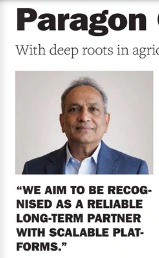
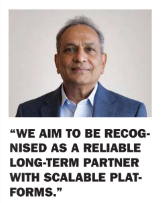
update gulf-news image and remove popup animations

diff --git a/pg_website/src/components/layout/MediaPopup.tsx b/pg_website/src/components/layout/MediaPopup.tsx
@@ -1,6 +1,5 @@
 'use client';
 import { useState } from 'react';
-import { motion, AnimatePresence } from 'framer-motion';
 import { X, ArrowRight, ExternalLink } from 'lucide-react';
 import Image from 'next/image';
 import Link from 'next/link';
@@ -30,113 +29,89 @@ const MediaPopup = () => {
   const [visible, setVisible] = useState(true);
   const dismiss = () => setVisible(false);
 
+  if (!visible) return null;
+
   return (
-    <AnimatePresence>
-      {visible && (
-        <>
-          {/* Backdrop */}
-          <motion.div
-            className="fixed inset-0 bg-black/50 z-[90]"
-            initial={{ opacity: 0 }}
-            animate={{ opacity: 1 }}
-            exit={{ opacity: 0 }}
-            onClick={dismiss}
-          />
+    <>
+      {/* Backdrop */}
+      <div
+        className="fixed inset-0 bg-black/50 z-[90]"
+        onClick={dismiss}
+      />
 
-          {/* Card — comes from top, sits in center */}
-          <div className="fixed inset-0 z-[100] flex items-center justify-center pointer-events-none">
-            <motion.div
-              className="w-[620px] bg-white rounded-2xl shadow-2xl overflow-hidden pointer-events-auto"
-              initial={{ opacity: 0, x: 520 }}
-              animate={{ opacity: 1, x: 0 }}
-              exit={{ opacity: 0, x: 520 }}
-              transition={{ type: 'spring', stiffness: 200, damping: 24, mass: 1 }}
+      {/* Card */}
+      <div className="fixed inset-0 z-[100] flex items-center justify-center pointer-events-none">
+        <div className="w-[620px] bg-white rounded-2xl shadow-2xl overflow-hidden pointer-events-auto">
+          {/* Header */}
+          <div className="bg-company-royal px-5 py-4 flex items-center justify-between">
+            <div>
+              <p className="text-company-orange text-xs font-semibold uppercase tracking-widest">
+                Paragon in the Spotlight
+              </p>
+              <p className="text-white font-bold text-base leading-tight mt-0.5">
+                We've been featured!
+              </p>
+            </div>
+            <button
+              onClick={dismiss}
+              className="text-white/50 hover:text-white transition-colors p-1"
+              aria-label="Close"
             >
-              {/* Header */}
-              <motion.div
-                className="bg-company-royal px-5 py-4 flex items-center justify-between"
-                initial={{ opacity: 0, y: -20 }}
-                animate={{ opacity: 1, y: 0 }}
-                transition={{ delay: 0.25, duration: 0.4, ease: 'easeOut' }}
-              >
-                <div>
-                  <p className="text-company-orange text-xs font-semibold uppercase tracking-widest">
-                    Paragon in the Spotlight
-                  </p>
-                  <p className="text-white font-bold text-base leading-tight mt-0.5">
-                    We've been featured!
-                  </p>
-                </div>
-                <button
-                  onClick={dismiss}
-                  className="text-white/50 hover:text-white transition-colors p-1"
-                  aria-label="Close"
-                >
-                  <X className="w-5 h-5" />
-                </button>
-              </motion.div>
-
-              {/* 3 image cards in a row */}
-              <div className="p-4 grid grid-cols-3 gap-3">
-                {items.map((item, i) => (
-                  <motion.a
-                    key={i}
-                    href={item.href}
-                    target="_blank"
-                    rel="noopener noreferrer"
-                    initial={{ opacity: 0, y: 30, scale: 0.95 }}
-                    animate={{ opacity: 1, y: 0, scale: 1 }}
-                    transition={{ delay: 0.35 + i * 0.12, duration: 0.4, ease: 'easeOut' }}
-                    className="group flex flex-col rounded-xl overflow-hidden border border-gray-100 hover:shadow-md hover:-translate-y-1 transition-all duration-300"
-                  >
-                    {/* Image */}
-                    <div className="relative h-[190px] w-full bg-gray-100">
-                      <Image
-                        src={item.image}
-                        alt={item.title}
-                        fill
-                        className="object-cover group-hover:scale-105 transition-transform duration-500"
-                        sizes="160px"
-                      />
-                    </div>
-
-                    {/* Text */}
-                    <div className="bg-white p-2.5 flex-1 flex flex-col justify-between">
-                      <p className="text-[10px] text-gray-400 font-medium leading-tight mb-0.5">
-                        {item.label}
-                      </p>
-                      <p className="text-xs font-bold text-company-royal group-hover:text-company-orange transition-colors leading-tight">
-                        {item.title}
-                      </p>
-                      <span className="inline-flex items-center gap-0.5 mt-2 text-[10px] text-company-orange font-semibold">
-                        View <ExternalLink className="w-2.5 h-2.5" />
-                      </span>
-                    </div>
-                  </motion.a>
-                ))}
-              </div>
-
-              {/* Footer CTA */}
-              <motion.div
-                className="px-4 pb-4"
-                initial={{ opacity: 0, y: 15 }}
-                animate={{ opacity: 1, y: 0 }}
-                transition={{ delay: 0.7, duration: 0.35, ease: 'easeOut' }}
-              >
-                <Link
-                  href="/media"
-                  onClick={dismiss}
-                  className="flex items-center justify-center gap-2 w-full bg-company-royal hover:bg-company-orange text-white font-semibold py-3 rounded-xl transition-all duration-300"
-                >
-                  Visit Media Center
-                  <ArrowRight className="w-4 h-4" />
-                </Link>
-              </motion.div>
-            </motion.div>
+              <X className="w-5 h-5" />
+            </button>
           </div>
-        </>
-      )}
-    </AnimatePresence>
+
+          {/* 3 image cards in a row */}
+          <div className="p-4 grid grid-cols-3 gap-3">
+            {items.map((item, i) => (
+              <a
+                key={i}
+                href={item.href}
+                target="_blank"
+                rel="noopener noreferrer"
+                className="group flex flex-col rounded-xl overflow-hidden border border-gray-100 hover:shadow-md hover:-translate-y-1 transition-all duration-300"
+              >
+                {/* Image */}
+                <div className="relative h-[190px] w-full bg-gray-100">
+                  <Image
+                    src={item.image}
+                    alt={item.title}
+                    fill
+                    className="object-cover group-hover:scale-105 transition-transform duration-500"
+                    sizes="160px"
+                  />
+                </div>
+
+                {/* Text */}
+                <div className="bg-white p-2.5 flex-1 flex flex-col justify-between">
+                  <p className="text-[10px] text-gray-400 font-medium leading-tight mb-0.5">
+                    {item.label}
+                  </p>
+                  <p className="text-xs font-bold text-company-royal group-hover:text-company-orange transition-colors leading-tight">
+                    {item.title}
+                  </p>
+                  <span className="inline-flex items-center gap-0.5 mt-2 text-[10px] text-company-orange font-semibold">
+                    View <ExternalLink className="w-2.5 h-2.5" />
+                  </span>
+                </div>
+              </a>
+            ))}
+          </div>
+
+          {/* Footer CTA */}
+          <div className="px-4 pb-4">
+            <Link
+              href="/media"
+              onClick={dismiss}
+              className="flex items-center justify-center gap-2 w-full bg-company-royal hover:bg-company-orange text-white font-semibold py-3 rounded-xl transition-all duration-300"
+            >
+              Visit Media Center
+              <ArrowRight className="w-4 h-4" />
+            </Link>
+          </div>
+        </div>
+      </div>
+    </>
   );
 };
 
